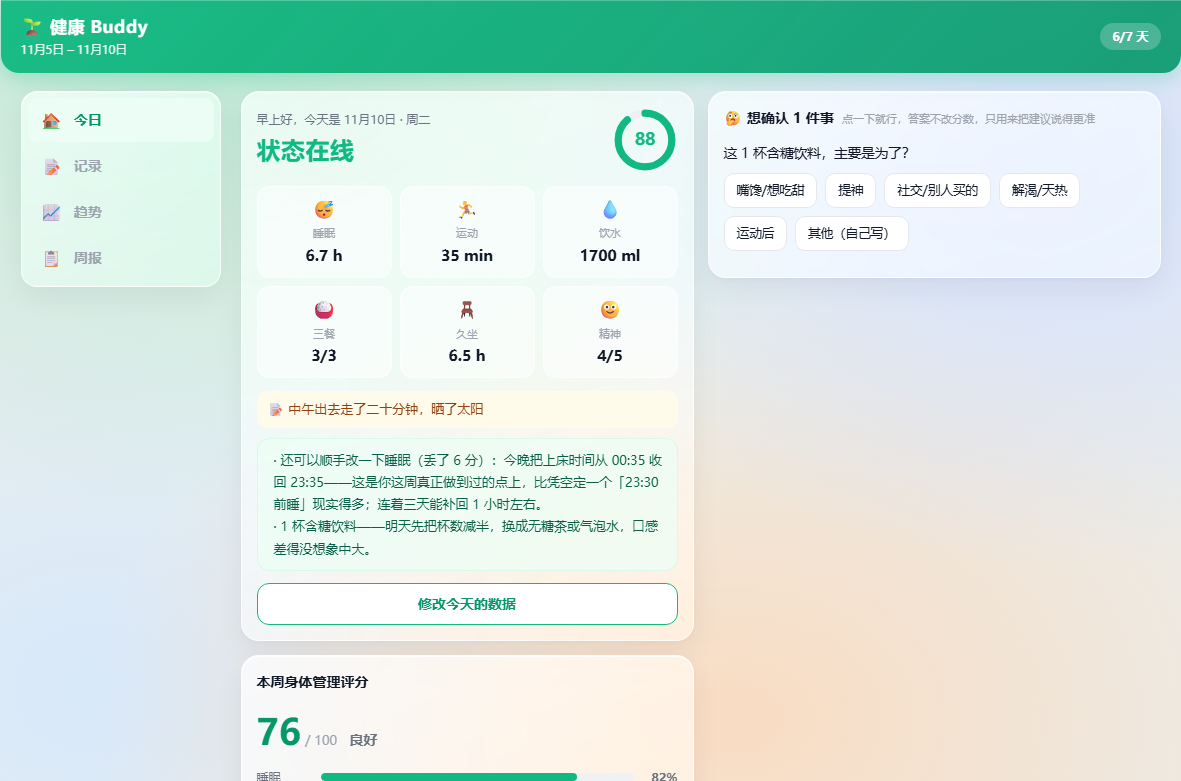
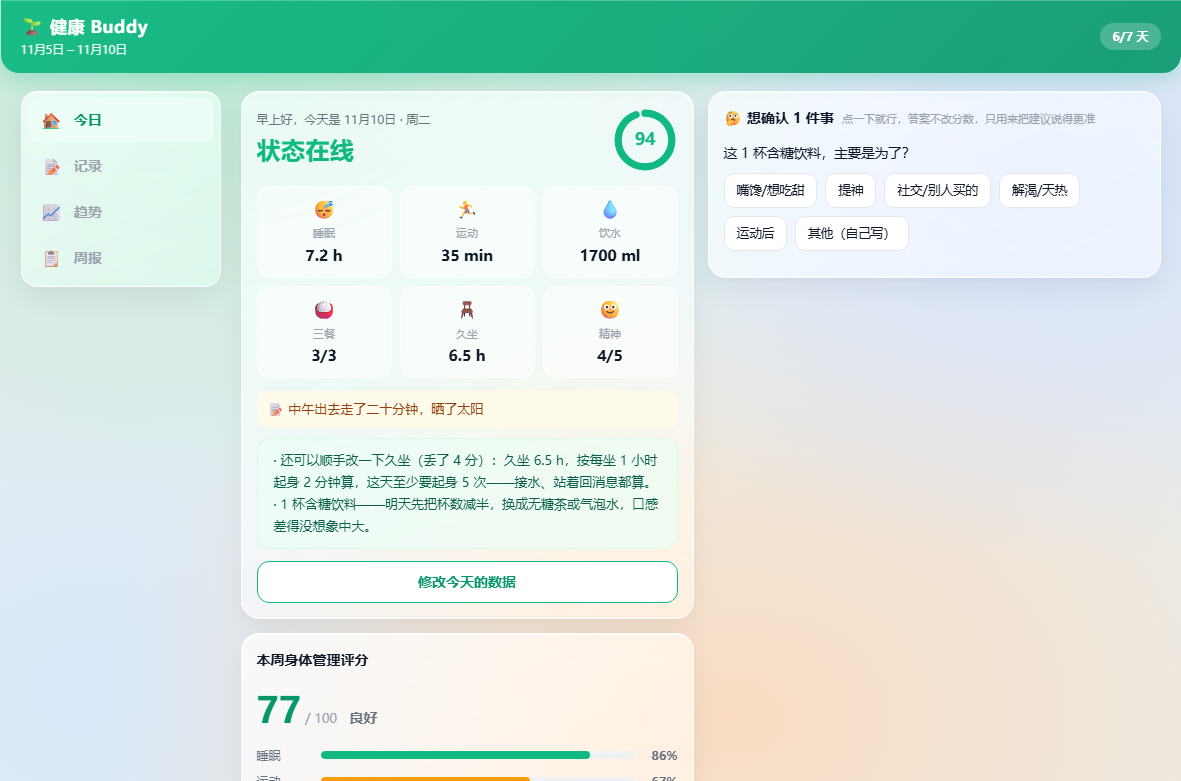
加：夜间睡眠下方显示全天合计
用户提出：填完夜间和午休后，最想知道的是「全天到底睡了多久」，
但这个数原来埋在灰色小字里。

- 夜间睡眠输入框下方新增独立读数：全天 6.7 小时 = 夜间 6.3 + 午休 25 分钟
- 数字用绿色加粗 16px，算式用 11.5px 灰字，主次分明
- 实时刷新：改时间、改夜间时长、点/填午休都会更新
- 顺手修：手填午休时读数与小字不刷新的问题（原来只有点 chip 才会）
- 午休提示收窄为「计入评分 X h」，不再重复说全天
- 演示数据修正为夜间 6.8（与在床一致），重出 README 截图
- 桌面版 1.2.20

diff --git a/desktop-app/app/index.html b/desktop-app/app/index.html
@@ -198,6 +198,10 @@ input[type=range]{width:100%;accent-color:var(--green)}
 .unit-row input{flex:1;min-width:0;border:1px solid var(--line);border-radius:9px;padding:8px 10px;font-size:16px;font-family:inherit;background:#fff;outline:none}
 .unit-row input:focus{border-color:var(--green)}
 .unit-row .u{font-size:12px;color:#9ca3af;flex-shrink:0;min-width:24px}
+/* 全天睡眠读数：紧跟在夜间睡眠下面，一眼看到合计 */
+.sleep-total{margin-top:9px;font-size:12.5px;color:var(--t2);display:flex;align-items:baseline;flex-wrap:wrap;gap:4px}
+.sleep-total b{font-size:16px;color:var(--green-d);font-weight:700}
+.sleep-total .eq{font-size:11.5px;color:var(--t3)}
 .check-box .ck-fix,.check-box .ck-go{border:1px solid currentColor;background:#fff;color:inherit;border-radius:7px;padding:3px 8px;font-size:12px;font-family:inherit;cursor:pointer;white-space:nowrap;margin-left:2px}
 
 /* 首页 */
@@ -374,6 +378,7 @@ input[type=range]{width:100%;accent-color:var(--green)}
         <div class="field">
           <label>夜间睡眠 <span class="unit">不含午休 · 按小时填</span></label>
           <div class="unit-row"><input id="f-sleep" max="16" min="0" placeholder="填了入睡和起床会自动计算" step="0.1" type="number"><span class="u">小时</span></div>
+          <div class="sleep-total" id="f-sleep-total"></div>
           <div class="hint" id="f-sleep-auto"></div>
         </div>
         <div class="field" style="margin-top:12px">
@@ -560,6 +565,18 @@ function sleepTipText(c, napMin){
     +(napMin?('；加上午休 '+napMin+' 分钟，全天合计约 '+(Math.round((n+napMin/60)*10)/10).toFixed(1)+' 小时'):'')
     +'。躺下很久才睡着的，把这里往下调一点';
 }
+/* 全天合计读数：夜间 + 午休，放在夜间睡眠下面 */
+function updateSleepTotal(){
+  var box=document.getElementById('f-sleep-total');
+  if(!box) return;
+  var nv=parseFloat($('#f-sleep').value);
+  if(isNaN(nv)){ box.innerHTML=''; return; }
+  var n=Math.round(nv*10)/10, nap=formState.nap||0;
+  var total=Math.round((n+nap/60)*10)/10;
+  box.innerHTML='全天 <b>'+total.toFixed(1)+'</b> 小时'
+    +(nap? '<span class="eq">＝ 夜间 '+n.toFixed(1)+' + 午休 '+nap+' 分钟</span>'
+         : '<span class="eq">（这天没有午休）</span>');
+}
 /* 只刷新提示，不动用户已经调过的时长（改午休时用） */
 function refreshSleepTip(){
   var b=$('#f-bed').value, w=$('#f-wake').value, tip=$('#f-sleep-auto');
@@ -574,6 +591,7 @@ function autoSleepUI(){
     if(c!=null){
       $('#f-sleep').value=c.toFixed(1);
       tip.textContent=sleepTipText(c, formState.nap||0);
+      updateSleepTotal();
     }
     else tip.textContent='入睡和起床时间似乎不太合理，请手动填写时长';
   } else tip.textContent='';
@@ -2106,12 +2124,13 @@ function renderToggles(){
       var nightH=Math.round(nightV*10)/10;
       var allH=Math.round((nightH+formState.nap/60)*10)/10;
       var eff=Math.round((nightH+Math.min(formState.nap,60)/60*0.5)*10)/10;
-      nh.textContent='夜间 '+nightH.toFixed(1)+' h + 午休 '+formState.nap+' 分钟 → 全天 '+allH.toFixed(1)+' h，计入评分 '+eff.toFixed(1)+' h（午睡按一半折算，最多折 30 分钟）';
+      nh.textContent='计入评分 '+eff.toFixed(1)+' h（午睡按一半折算，最多折 30 分钟）';
     }else if(formState.nap>0){
       nh.textContent='午休 '+formState.nap+' 分钟已记录；会单独加进「全天」里算';
     }else{
       nh.textContent='20~30 分钟最稳；超过 1 小时容易睡进深睡，醒来发闷，也会推迟当晚入睡';
     }
+    updateSleepTotal();
   }
   syncMealNotesUI();
   const exv=parseFloat($('#f-exercise').value);
@@ -3038,6 +3057,7 @@ function init(){
   $('#f-wake').addEventListener('change',autoSleepUI);
   $('#f-water').addEventListener('input',e=>{ $('#f-water-val').textContent=e.target.value+' ml'; });
   ['f-bed','f-wake','f-sleep','f-exercise','f-water','f-sit','f-note','f-meal-note-0','f-meal-note-1','f-meal-note-2'].forEach(function(id){ document.getElementById(id).addEventListener('input',saveDraft); });
+  $('#f-sleep').addEventListener('input',updateSleepTotal);
   $$('#sugar-chips .chip').forEach(c=>c.onclick=()=>{ formState.sugar=+c.dataset.v; renderToggles(); saveDraft(); });
   $$('#nap-chips .chip').forEach(c=>c.onclick=()=>{
     formState.nap=+c.dataset.v;
@@ -3051,7 +3071,7 @@ function init(){
       var v=parseInt(napEl.value,10);
       formState.nap=isNaN(v)?0:Math.max(0,Math.min(180,v));
       $$('#nap-chips .chip').forEach(c=>c.classList.toggle('on',+c.dataset.v===formState.nap));
-      refreshSleepTip(); markDirty(); saveDraft();
+      renderToggles(); refreshSleepTip(); updateSleepTotal(); markDirty(); saveDraft();
     });
   }
   $('#f-exercise').addEventListener('input',renderToggles);

diff --git a/健康Buddy-7天身体管理工作台.html b/健康Buddy-7天身体管理工作台.html
@@ -198,6 +198,10 @@ input[type=range]{width:100%;accent-color:var(--green)}
 .unit-row input{flex:1;min-width:0;border:1px solid var(--line);border-radius:9px;padding:8px 10px;font-size:16px;font-family:inherit;background:#fff;outline:none}
 .unit-row input:focus{border-color:var(--green)}
 .unit-row .u{font-size:12px;color:#9ca3af;flex-shrink:0;min-width:24px}
+/* 全天睡眠读数：紧跟在夜间睡眠下面，一眼看到合计 */
+.sleep-total{margin-top:9px;font-size:12.5px;color:var(--t2);display:flex;align-items:baseline;flex-wrap:wrap;gap:4px}
+.sleep-total b{font-size:16px;color:var(--green-d);font-weight:700}
+.sleep-total .eq{font-size:11.5px;color:var(--t3)}
 .check-box .ck-fix,.check-box .ck-go{border:1px solid currentColor;background:#fff;color:inherit;border-radius:7px;padding:3px 8px;font-size:12px;font-family:inherit;cursor:pointer;white-space:nowrap;margin-left:2px}
 
 /* 首页 */
@@ -374,6 +378,7 @@ input[type=range]{width:100%;accent-color:var(--green)}
         <div class="field">
           <label>夜间睡眠 <span class="unit">不含午休 · 按小时填</span></label>
           <div class="unit-row"><input id="f-sleep" max="16" min="0" placeholder="填了入睡和起床会自动计算" step="0.1" type="number"><span class="u">小时</span></div>
+          <div class="sleep-total" id="f-sleep-total"></div>
           <div class="hint" id="f-sleep-auto"></div>
         </div>
         <div class="field" style="margin-top:12px">
@@ -560,6 +565,18 @@ function sleepTipText(c, napMin){
     +(napMin?('；加上午休 '+napMin+' 分钟，全天合计约 '+(Math.round((n+napMin/60)*10)/10).toFixed(1)+' 小时'):'')
     +'。躺下很久才睡着的，把这里往下调一点';
 }
+/* 全天合计读数：夜间 + 午休，放在夜间睡眠下面 */
+function updateSleepTotal(){
+  var box=document.getElementById('f-sleep-total');
+  if(!box) return;
+  var nv=parseFloat($('#f-sleep').value);
+  if(isNaN(nv)){ box.innerHTML=''; return; }
+  var n=Math.round(nv*10)/10, nap=formState.nap||0;
+  var total=Math.round((n+nap/60)*10)/10;
+  box.innerHTML='全天 <b>'+total.toFixed(1)+'</b> 小时'
+    +(nap? '<span class="eq">＝ 夜间 '+n.toFixed(1)+' + 午休 '+nap+' 分钟</span>'
+         : '<span class="eq">（这天没有午休）</span>');
+}
 /* 只刷新提示，不动用户已经调过的时长（改午休时用） */
 function refreshSleepTip(){
   var b=$('#f-bed').value, w=$('#f-wake').value, tip=$('#f-sleep-auto');
@@ -574,6 +591,7 @@ function autoSleepUI(){
     if(c!=null){
       $('#f-sleep').value=c.toFixed(1);
       tip.textContent=sleepTipText(c, formState.nap||0);
+      updateSleepTotal();
     }
     else tip.textContent='入睡和起床时间似乎不太合理，请手动填写时长';
   } else tip.textContent='';
@@ -2106,12 +2124,13 @@ function renderToggles(){
       var nightH=Math.round(nightV*10)/10;
       var allH=Math.round((nightH+formState.nap/60)*10)/10;
       var eff=Math.round((nightH+Math.min(formState.nap,60)/60*0.5)*10)/10;
-      nh.textContent='夜间 '+nightH.toFixed(1)+' h + 午休 '+formState.nap+' 分钟 → 全天 '+allH.toFixed(1)+' h，计入评分 '+eff.toFixed(1)+' h（午睡按一半折算，最多折 30 分钟）';
+      nh.textContent='计入评分 '+eff.toFixed(1)+' h（午睡按一半折算，最多折 30 分钟）';
     }else if(formState.nap>0){
       nh.textContent='午休 '+formState.nap+' 分钟已记录；会单独加进「全天」里算';
     }else{
       nh.textContent='20~30 分钟最稳；超过 1 小时容易睡进深睡，醒来发闷，也会推迟当晚入睡';
     }
+    updateSleepTotal();
   }
   syncMealNotesUI();
   const exv=parseFloat($('#f-exercise').value);
@@ -3038,6 +3057,7 @@ function init(){
   $('#f-wake').addEventListener('change',autoSleepUI);
   $('#f-water').addEventListener('input',e=>{ $('#f-water-val').textContent=e.target.value+' ml'; });
   ['f-bed','f-wake','f-sleep','f-exercise','f-water','f-sit','f-note','f-meal-note-0','f-meal-note-1','f-meal-note-2'].forEach(function(id){ document.getElementById(id).addEventListener('input',saveDraft); });
+  $('#f-sleep').addEventListener('input',updateSleepTotal);
   $$('#sugar-chips .chip').forEach(c=>c.onclick=()=>{ formState.sugar=+c.dataset.v; renderToggles(); saveDraft(); });
   $$('#nap-chips .chip').forEach(c=>c.onclick=()=>{
     formState.nap=+c.dataset.v;
@@ -3051,7 +3071,7 @@ function init(){
       var v=parseInt(napEl.value,10);
       formState.nap=isNaN(v)?0:Math.max(0,Math.min(180,v));
       $$('#nap-chips .chip').forEach(c=>c.classList.toggle('on',+c.dataset.v===formState.nap));
-      refreshSleepTip(); markDirty(); saveDraft();
+      renderToggles(); refreshSleepTip(); updateSleepTotal(); markDirty(); saveDraft();
     });
   }
   $('#f-exercise').addEventListener('input',renderToggles);
